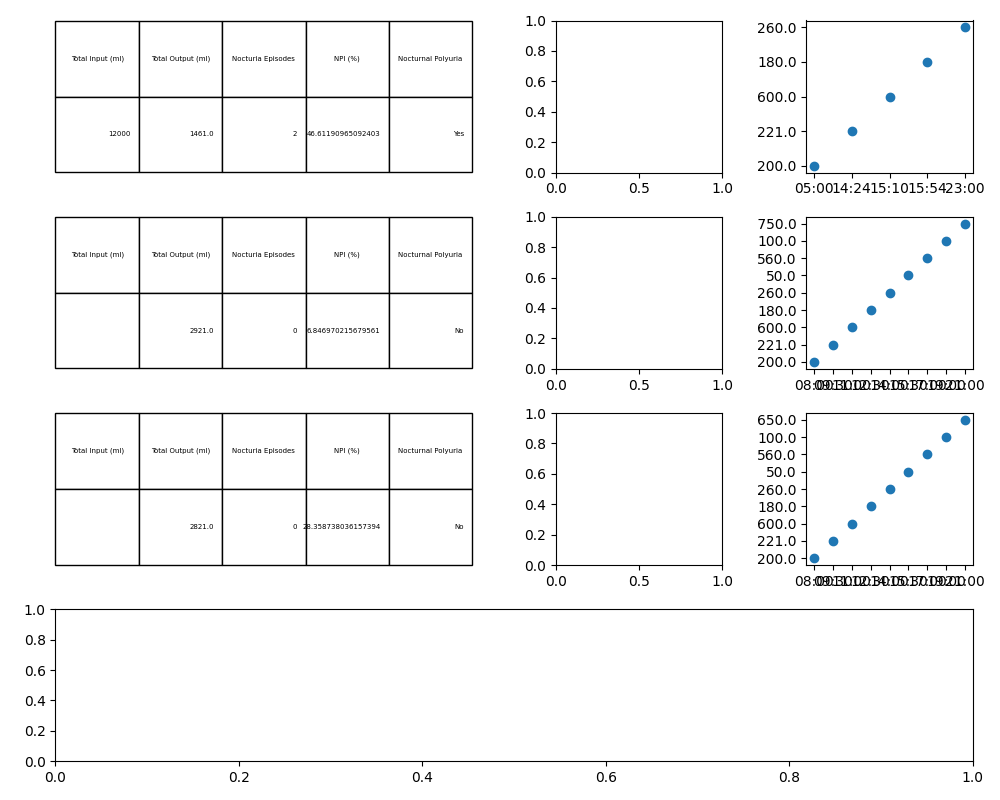
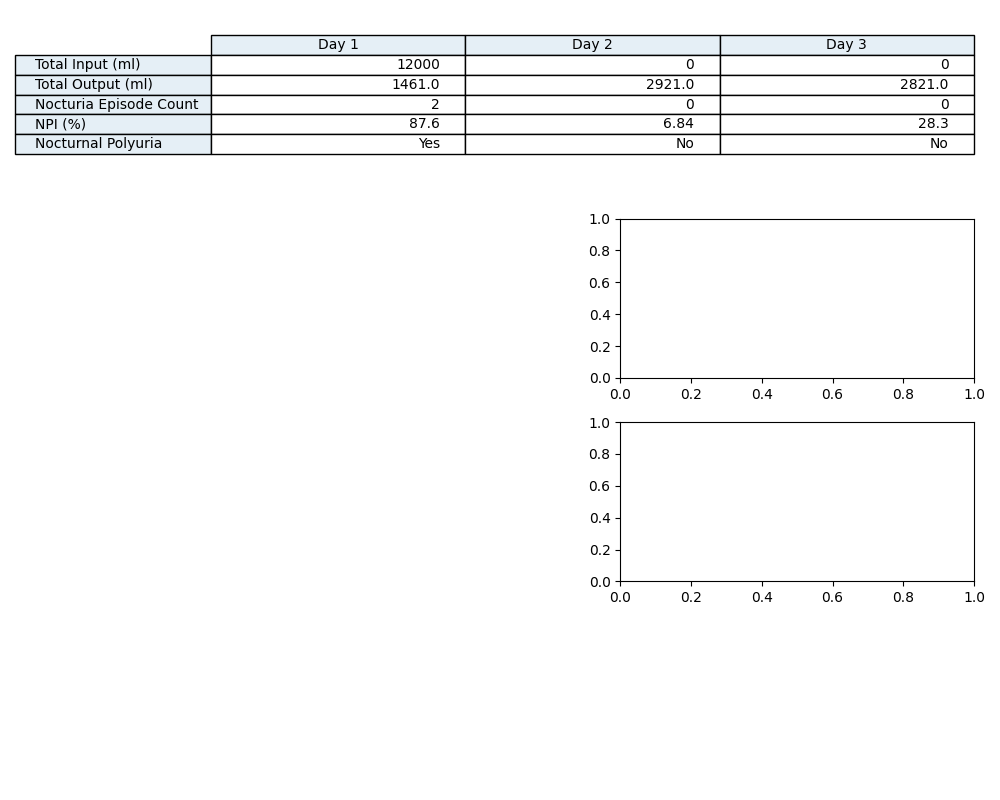
patient report update

diff --git a/MainApp/Adapter/PatientReport.py b/MainApp/Adapter/PatientReport.py
@@ -144,77 +144,87 @@ class PatientReportGenerator():
 
     def CollectingData(self):
         
-        #Data for Day Report
         TotalInput_Day1, TotalOutput_Day1, NocturiaNumber_Day1, NPI_Day1, NocturiaPresent_Day1 = self.GetVoidData("day 1", "DailyTable")
         TotalInput_Day2, TotalOutput_Day2, NocturiaNumber_Day2, NPI_Day2, NocturiaPresent_Day2 = self.GetVoidData("day 2", "DailyTable")
         TotalInput_Day3, TotalOutput_Day3, NocturiaNumber_Day3, NPI_Day3, NocturiaPresent_Day3 = self.GetVoidData("day 3", "DailyTable")
         
-        Day1 = {'Total Input (ml)': TotalInput_Day1, 'Total Output (ml)': TotalOutput_Day1, 'Nocturia Episodes':  NocturiaNumber_Day1, 'NPI (%)': NPI_Day1, 'Nocturnal Polyuria': NocturiaPresent_Day1}
-        print(Day1)
-        Day1DF = pd.DataFrame(data=Day1,index=[0])
-        print(Day1DF)
-        Day2 = {'Total Input (ml)': TotalInput_Day2, 'Total Output (ml)': TotalOutput_Day2, 'Nocturia Episodes':  NocturiaNumber_Day2, 'NPI (%)': NPI_Day2, 'Nocturnal Polyuria': NocturiaPresent_Day2}
-        Day2DF = pd.DataFrame(data=Day2,index=[0])
-        Day3 = {'Total Input (ml)': TotalInput_Day3, 'Total Output (ml)': TotalOutput_Day3, 'Nocturia Episodes':  NocturiaNumber_Day3, 'NPI (%)': NPI_Day3, 'Nocturnal Polyuria': NocturiaPresent_Day3}
-        Day3DF = pd.DataFrame(data=Day3,index=[0])
+        TotalInput = []
+        TotalInput.append(TotalInput_Day1)
+        if TotalInput_Day2 != None:
+            TotalInput.append(TotalInput_Day2)
+        else:
+            TotalInput.append(0)
+        if TotalInput_Day3 != None:
+            TotalInput.append(TotalInput_Day3)
+        else:
+            TotalInput.append(0)
+
+        TotalOutput = []
+        TotalOutput.append(TotalOutput_Day1)
+        TotalOutput.append(TotalOutput_Day2)
+        TotalOutput.append(TotalOutput_Day3)
         
+        NocNum = []
+        NocNum.append(NocturiaNumber_Day1)
+        NocNum.append(NocturiaNumber_Day2)
+        NocNum.append(NocturiaNumber_Day3)
         
+        NPI = []
+        NPI.append(str(NPI_Day1)[:4])
+        NPI.append(str(NPI_Day2)[:4])
+        NPI.append(str(NPI_Day3)[:4])
+        
+        Noc = []
+        Noc.append(NocturiaPresent_Day1)
+        Noc.append(NocturiaPresent_Day2)
+        Noc.append(NocturiaPresent_Day3)
+
+        AllDays = []
+        AllDays.append(TotalInput)
+        AllDays.append(TotalOutput)
+        AllDays.append(NocNum)
+        AllDays.append(NPI)
+        AllDays.append(Noc)
+        
+
         #Daily Graph Data
         
         VoidVolume_Day1, VoidTimeList_Day1 = self.GetVoidData("day 1", "DailyGraph")
+        VoidVolume_Day1 = np.array(VoidVolume_Day1).astype(float)
         VoidVolume_Day2, VoidTimeList_Day2 = self.GetVoidData("day 2", "DailyGraph")
+        VoidVolume_Day2 = np.array(VoidVolume_Day2).astype(float)
         VoidVolume_Day3, VoidTimeList_Day3 = self.GetVoidData("day 3", "DailyGraph")
+        VoidVolume_Day3 = np.array(VoidVolume_Day3).astype(float)
         
-        return Day1DF, VoidVolume_Day1, VoidTimeList_Day1, Day2DF, VoidVolume_Day2, VoidTimeList_Day2, Day3DF, VoidVolume_Day3, VoidTimeList_Day3
+        return AllDays, VoidVolume_Day1, VoidTimeList_Day1, VoidVolume_Day2, VoidTimeList_Day2, VoidVolume_Day3, VoidTimeList_Day3
         
     def GenerateFigure(self):
-        Day1DF, VoidVolume_Day1, VoidTimeList_Day1, Day2DF, VoidVolume_Day2, VoidTimeList_Day2, Day3DF, VoidVolume_Day3, VoidTimeList_Day3 = self.CollectingData()
+        AllDays, VoidVolume_Day1, VoidTimeList_Day1, VoidVolume_Day2, VoidTimeList_Day2, VoidVolume_Day3, VoidTimeList_Day3 = self.CollectingData()
         
         fig3 = plt.figure(constrained_layout=True, figsize= [10,8])
         gs = fig3.add_gridspec(4, 4)
         
-        f3_ax1 = fig3.add_subplot(gs[0, -1])
-        f3_ax2 = fig3.add_subplot(gs[0, -2])
-        f3_ax3 = fig3.add_subplot(gs[0, :-2])
-        f3_ax3.set_axis_off()
+        ax1 = fig3.add_subplot(gs[0, :])
+        ax1.set_axis_off()
 
-        f3_ax4 = fig3.add_subplot(gs[1, -1])
-        f3_ax5 = fig3.add_subplot(gs[1, -2])
-        f3_ax6 = fig3.add_subplot(gs[1, :-2])
-        f3_ax6.set_axis_off()
+        ax3 = fig3.add_subplot(gs[1, -2:])
+        ax4 = fig3.add_subplot(gs[1, :-2])
 
-        f3_ax7 = fig3.add_subplot(gs[2, -1])
-        f3_ax8 = fig3.add_subplot(gs[2, -2])
-        f3_ax9 = fig3.add_subplot(gs[2, :-2])
-        f3_ax9.set_axis_off()
+        ax5 = fig3.add_subplot(gs[2, -2:])
+        ax6 = fig3.add_subplot(gs[2, :-2])
 
-        f3_ax10 = fig3.add_subplot(gs[3, :])
+        ax7 = fig3.add_subplot(gs[3, :])
+        
+        Columns = ('Day 1', 'Day 2', 'Day 3')
+        Rows = ('Total Input (ml)', 'Total Output (ml)', 'Nocturia Episode Count', 'NPI (%)', 'Nocturnal Polyuria')
+        ccolors = plt.cm.BuPu(np.full(len(Columns), 0.1))
+        rcolors = plt.cm.BuPu(np.full(len(Rows), 0.1))
+        DailySummaryTable = ax1.table(cellText=AllDays, colLabels=Columns, rowLabels = Rows, loc='center', colColours = ccolors, rowColours = rcolors)
 
-        
-        
-        f3_ax1.scatter(VoidTimeList_Day1, VoidVolume_Day1)
-        Day1Table = f3_ax3.table(cellText=Day1DF.values, colLabels=Day1DF.columns, loc='center')
-        Day1Table.scale(1, 4)
-        Day1Table.auto_set_font_size(False)
-        Day1Table.set_fontsize(5)
-        
-        f3_ax4.scatter(VoidTimeList_Day2, VoidVolume_Day2)
-        Day2Table = f3_ax6.table(cellText=Day2DF.values, colLabels=Day2DF.columns, loc='center')
-        Day2Table.scale(1, 4)
-        Day2Table.auto_set_font_size(False)
-        Day2Table.set_fontsize(5)
-        
-        f3_ax7.scatter(VoidTimeList_Day3, VoidVolume_Day3)
-        Day3Table = f3_ax9.table(cellText=Day3DF.values, colLabels=Day3DF.columns, loc='center')
-        Day3Table.scale(1, 4)
-        Day3Table.auto_set_font_size(False)
-        Day3Table.set_fontsize(5)
-        
         fig3.tight_layout()
 
         plt.savefig('./Styles/Patient.png')
 
 class PatientReport(Screen):
     PatientReportGenerator().GenerateFigure()
-    pass
-        
+    # pass

diff --git a/MainApp/Adapter/SymptomTracker.py b/MainApp/Adapter/SymptomTracker.py
@@ -1,9 +1,5 @@
 from kivy.uix.screenmanager import Screen
-from kivy.uix.screenmanager import SlideTransition
-from kivymd.uix.picker import MDDatePicker
 import pyrebase
-import os
-import numpy as np
 from ExternalConnections.FirebaseTest import VoidIndexFetched, WhichDay
 
 config = {
@@ -77,9 +73,6 @@ class SymptomTracker(Screen):
 
     def ShowVoid(self, VoidNumber, dayID):
         
-        print("Symptom Tracker Day ID: " + dayID)
-        
-        # VoidNumberStri = int(VoidNumber)
         EpisodeDayID = dayID + 'episode'
         self.EpiDay = EpisodeDayID
         self.VoidNo = VoidNumber
@@ -186,6 +179,6 @@ class SymptomTracker(Screen):
             return self.SymptomList
 
     def SendSymptomToFirebase(self):
-        Label = "Symptoms Experienced"
+        Label = "Symptoms" + self.EpiDay
         data = {Label: str(self.SymptomList)}
         db.child("patientData").child(self.PatientID).update(data)
